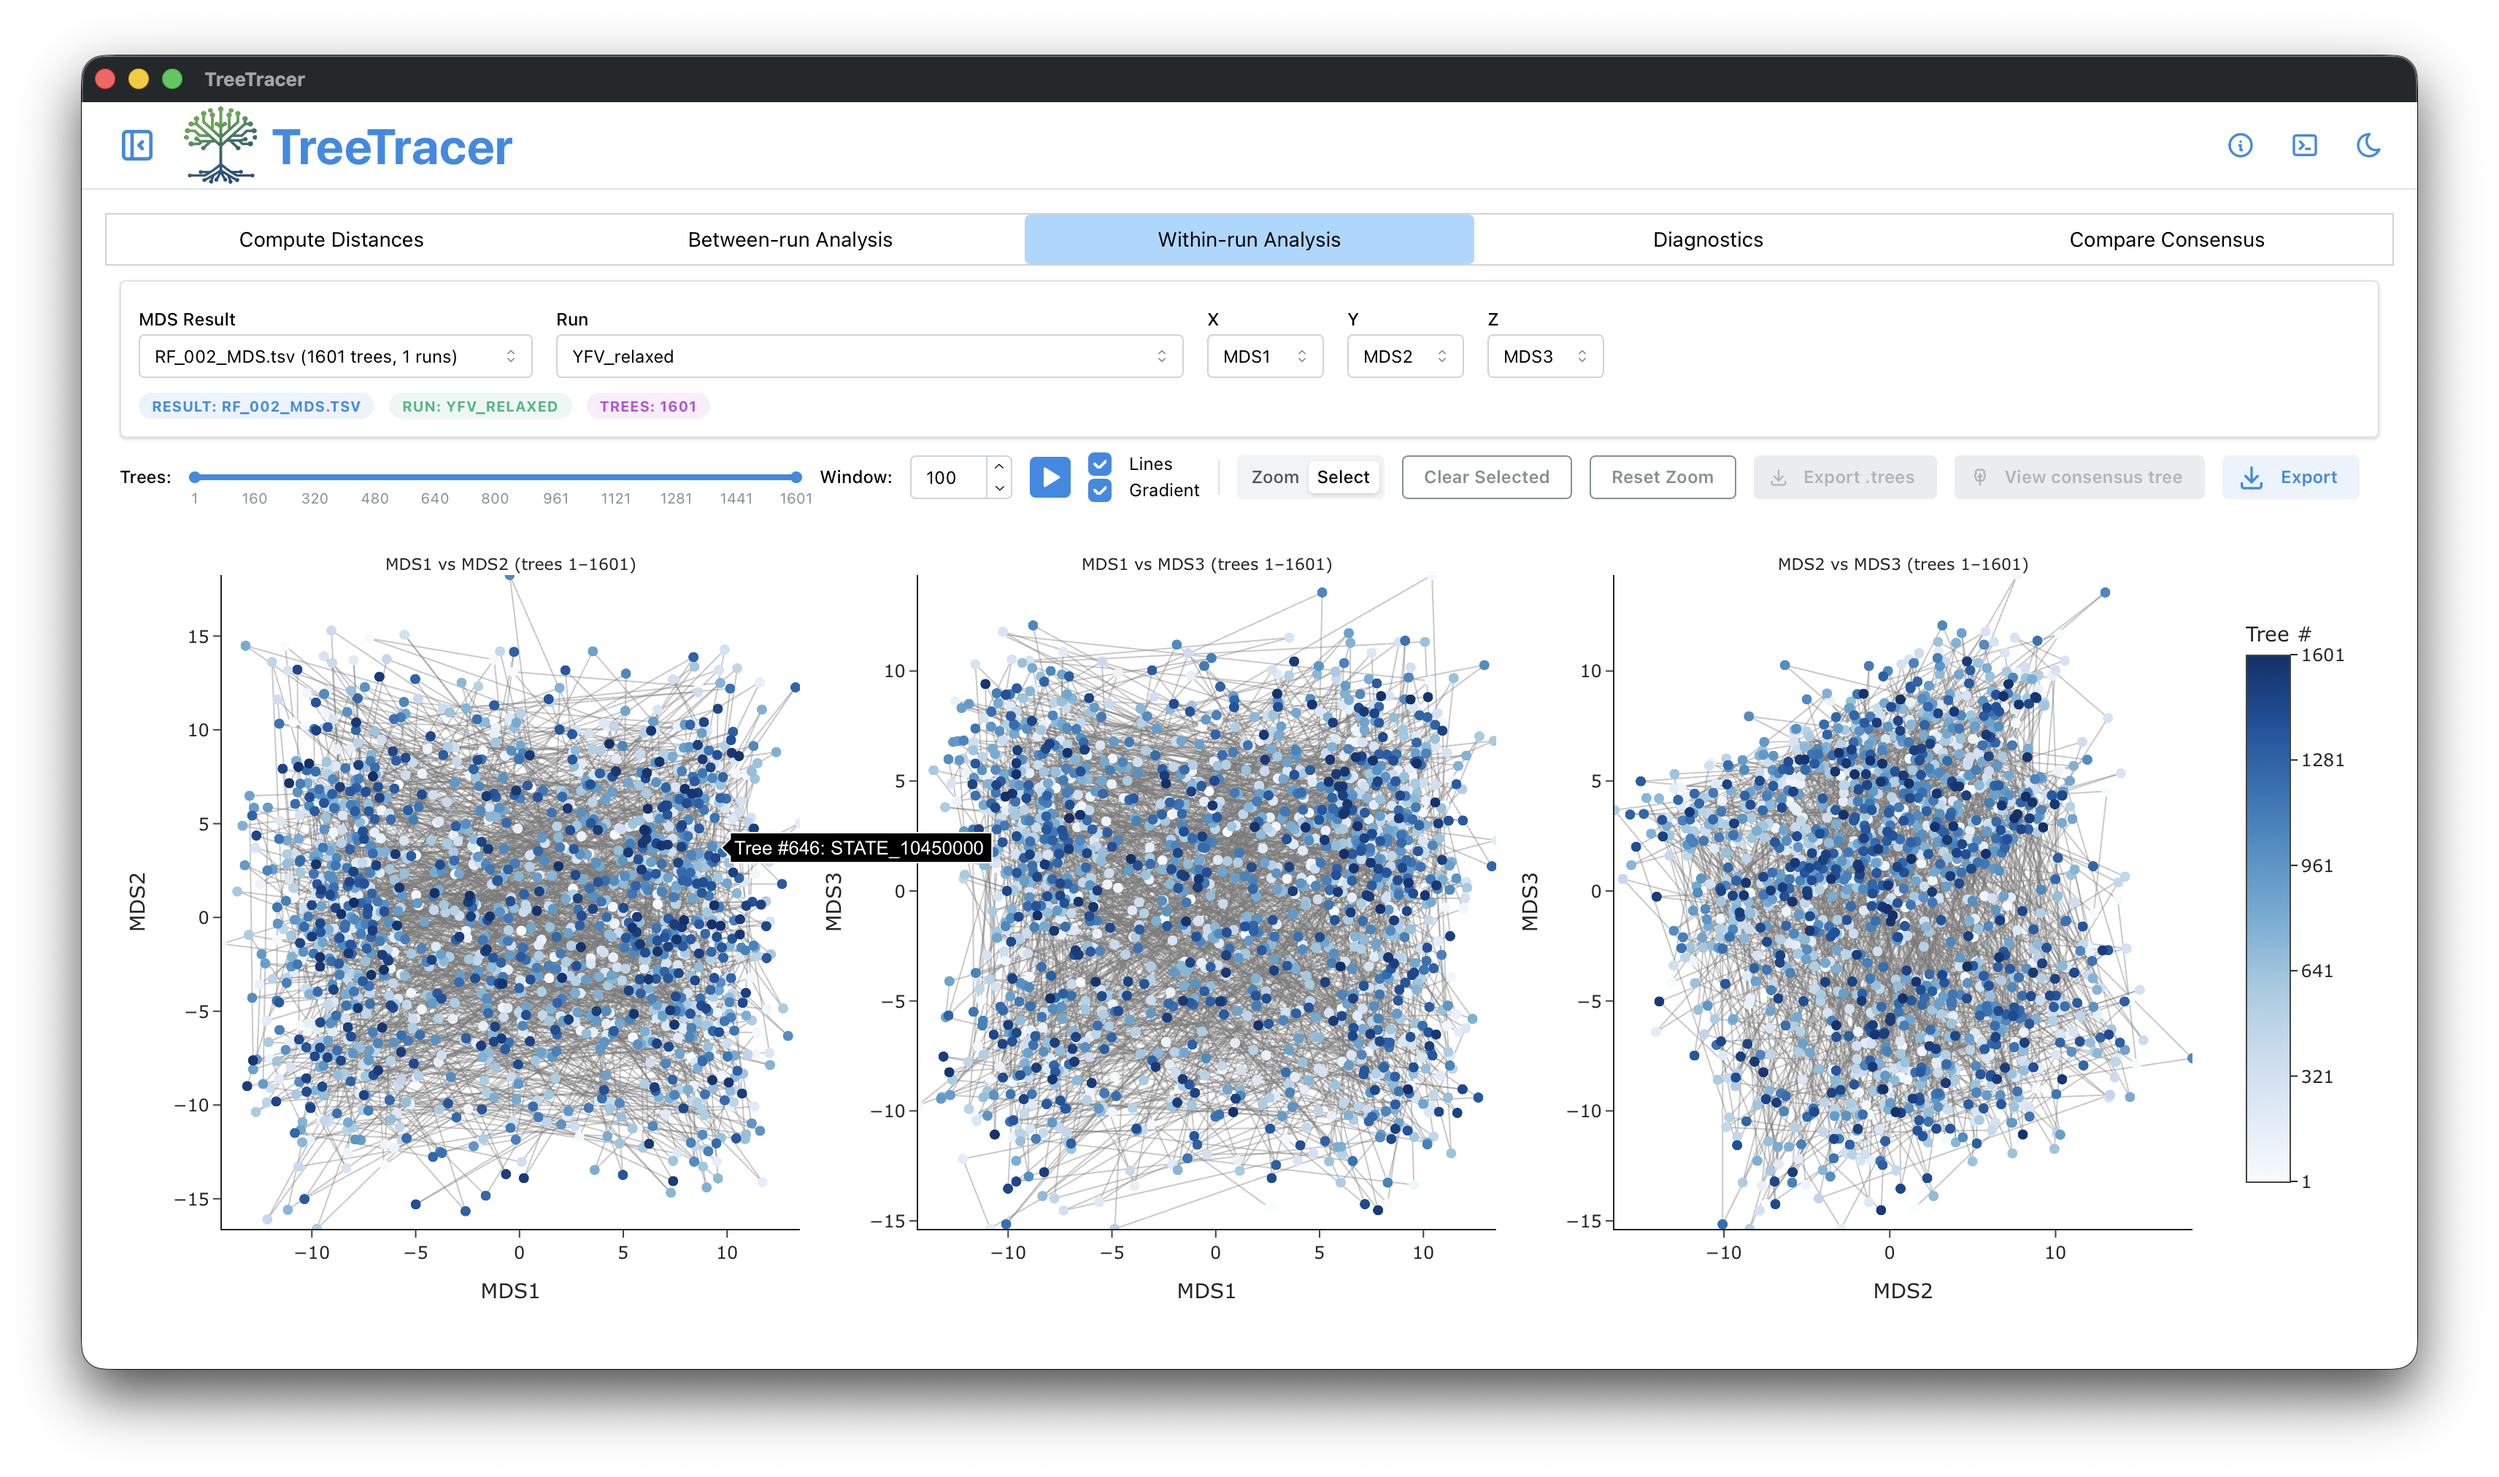
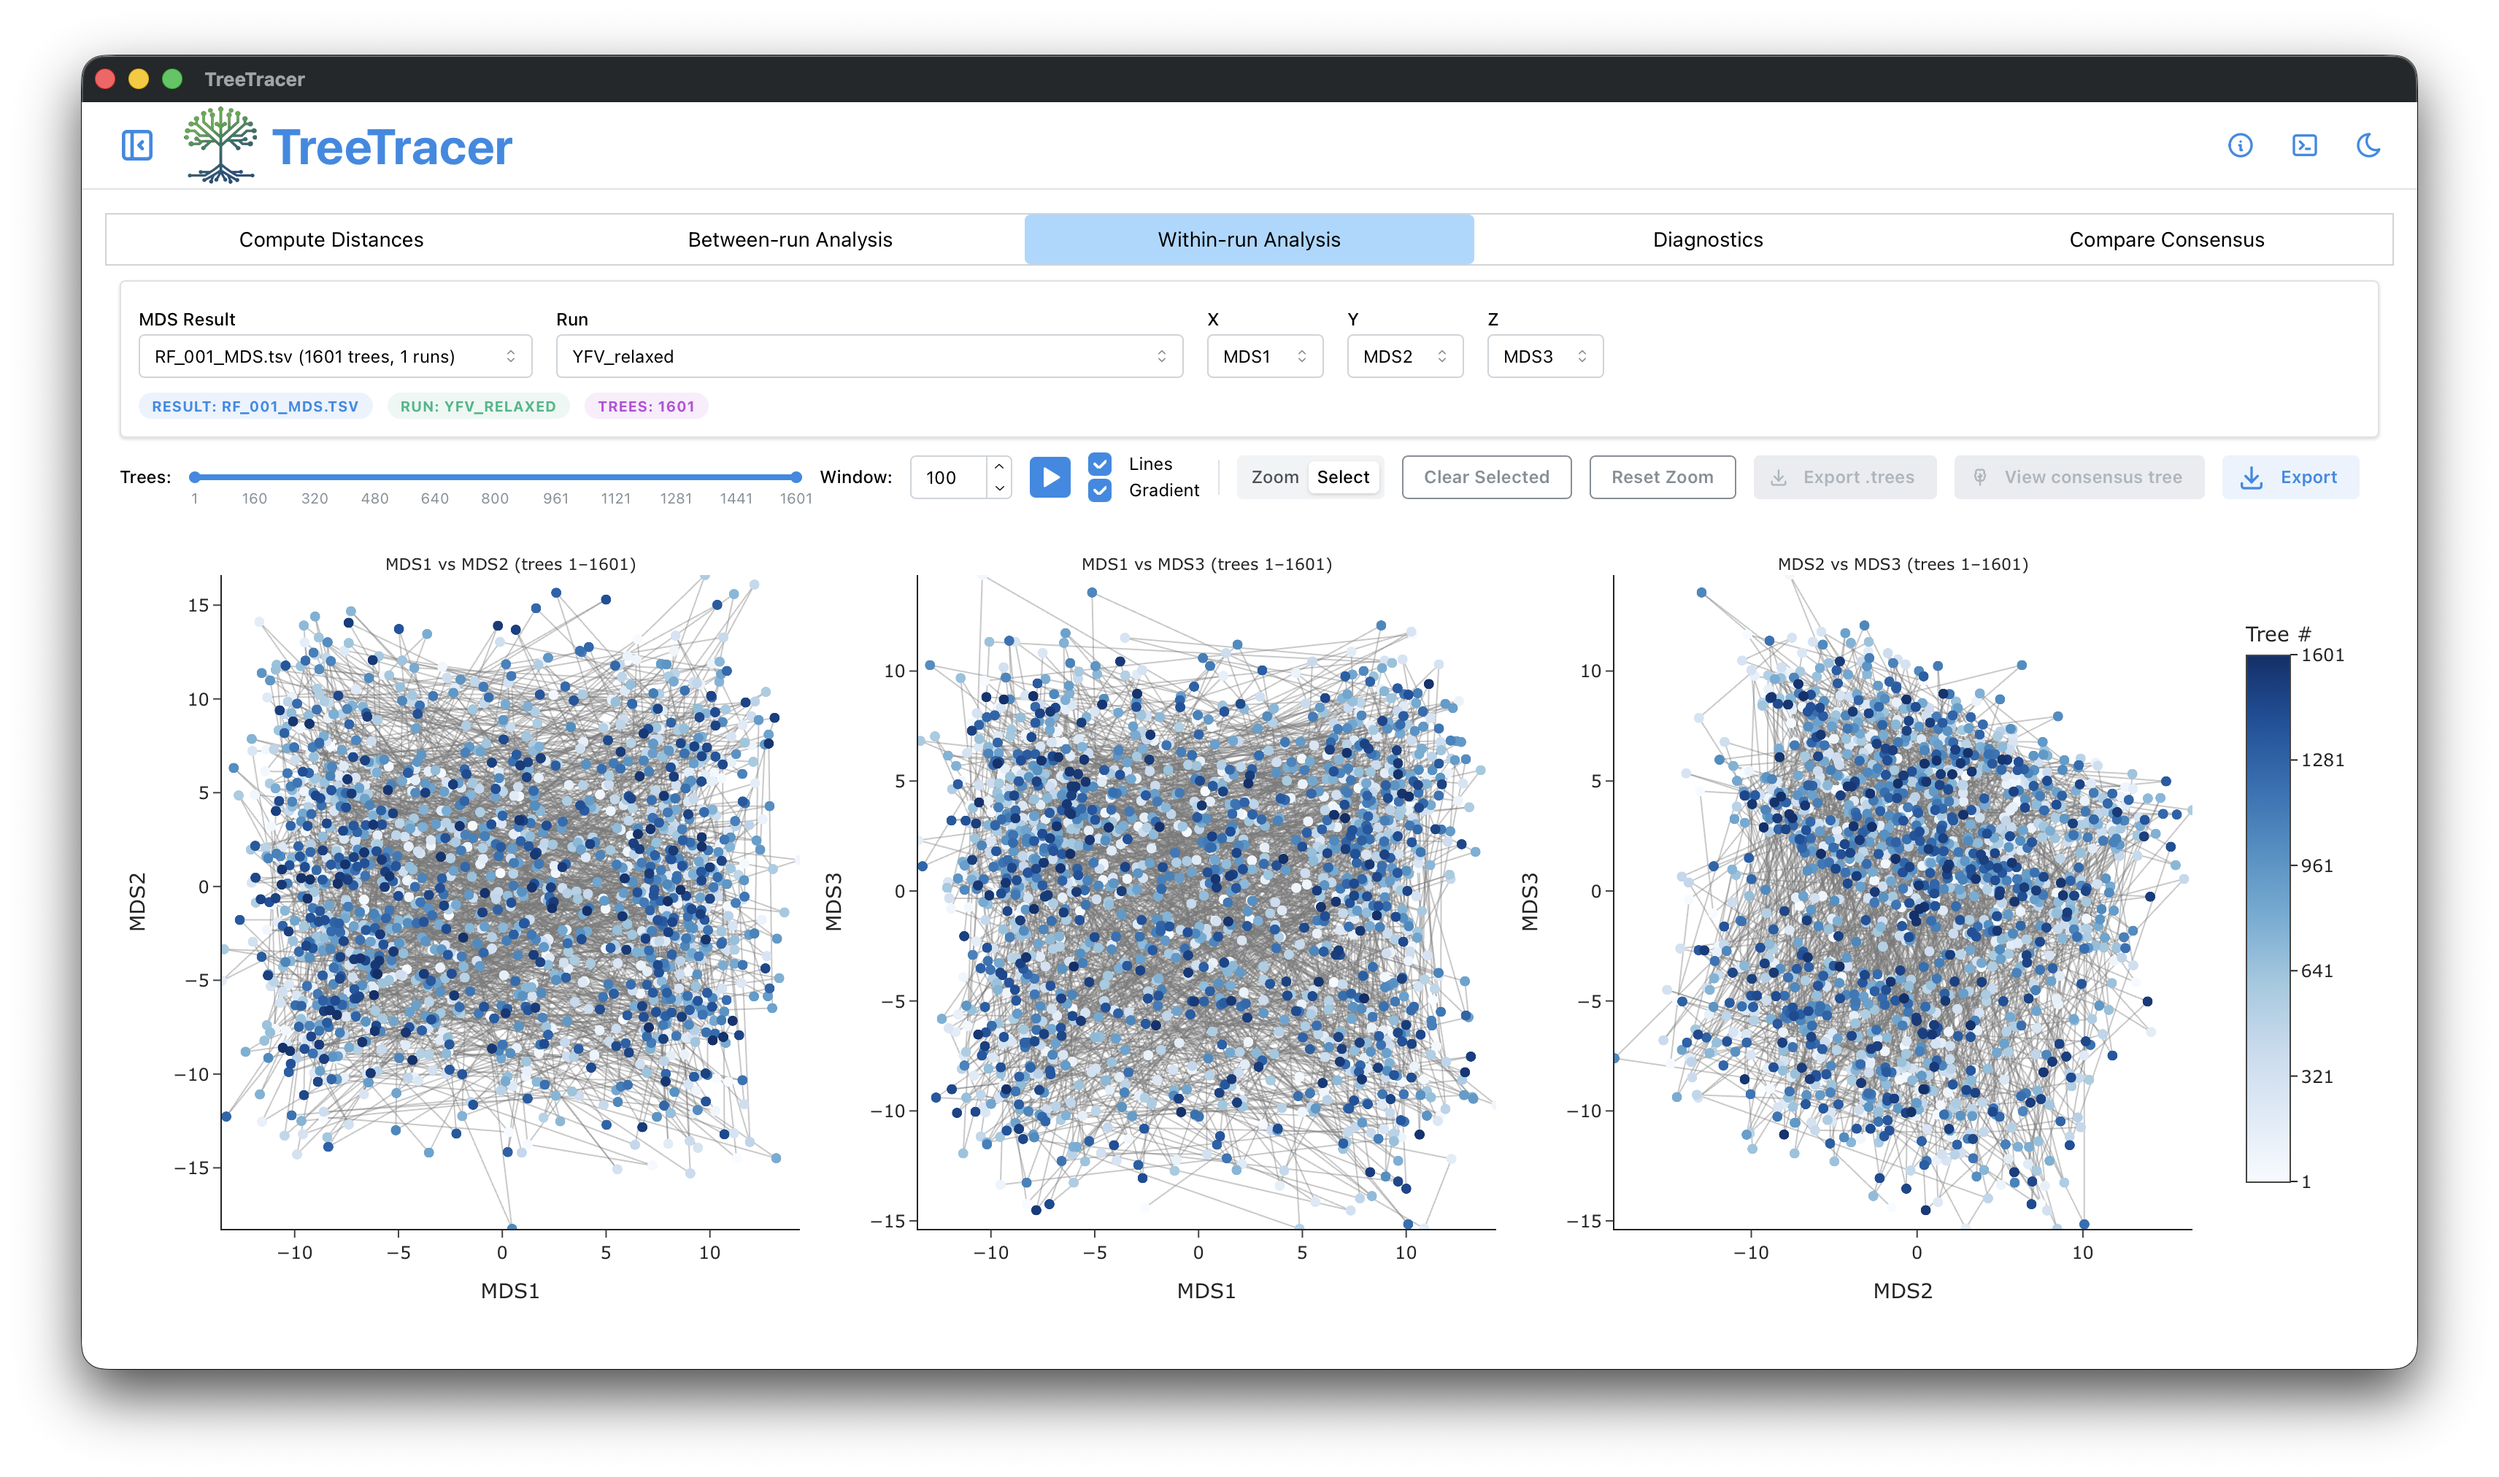
first updated draft of rates and dates tutorial

diff --git a/tutorials/workshop_rates_and_dates/workshop_rates_and_dates.md b/tutorials/workshop_rates_and_dates/workshop_rates_and_dates.md
@@ -411,7 +411,7 @@ Now, let’s have a look at the timescale of the tree. Select the statistics cal
 
 This indicates that the TMRCA for the Americas is significantly more recent than the entire tree and argues for a relatively recent introduction of yellow fever virus into the Americas. Note, however, that there is considerable uncertainty in these estimates. Switching to the `Estimates` panel shows that the mean date of of the TMRCA into the Americas is the year 1635 but the 95% HPD credible interval spans 1493 to 1765. Bryant et al. (2007) suggest that the introduction of YFV into the Americas is likely the result of the Atlantic slave trade which occurred from the 16th to 19th Centuries.
 
-## Visualizing the sampled posterior trees
+## Assessing convergence and mixing of the sampled posterior trees
 
 After checking the posterior samples for the continuous parameters in Tracer, we now move on to checking the posterior tree samples for convergence and proper mixing in TreeTracer. For convenience, we can rename the `YFV.trees` files from the `strict` and `relaxed` directories in the `.zip` file to `YFV_strict.trees` and `YFV_relaxed.trees` respectively. We first load the `YFV_strict.trees` file and set a 10% burn-in, by removing the first 200 sampled trees in the panel on the left-hand side:
 
@@ -429,19 +429,31 @@ We can now follow the same steps in TreeTracer for the `YFV_relaxed.trees` file,
 
 {% include image.html prefix=root_url file="treetracer-image4.png" %}
 
-
+When we now inspect the `Within-run Analysis` panel for the results of the MDS calculations, we observe a shift in the point colors for MDS1 x MDS2 and MDS1 x MDS3 2D projections from right to left. In other words, the remaining tree samples after removing 10% burn-in are still moving towards the posterior and the burn-in has hence been set too low:
 
 {% include image.html prefix=root_url file="treetracer-image5.png" %}
 
+This is confirmed by the Fréchet correlation ESS value in the `Diagnostics` panel, which is far below the desired threshold of 500 (Magee et al., 2024):
+
 {% include image.html prefix=root_url file="treetracer-image6.png" %}
+
+We hence go back to the `Compute Distances panel` and increase the burn-in to 20%, corresponding to removing the first 400 out of the 2001 collected tree samples. We again click `Compute RF distances` followed by `Compute MDS`:
 
 {% include image.html prefix=root_url file="treetracer-image7.png" %}
 
+Now when we inspect the 2D projections of the MDS in the `Within-run Analysis` panel, we're unable to detect any pattern(s) and can hence visually conclude that our Markov chain has converged and is mixing well in posterior tree space:
+
 {% include image.html prefix=root_url file="treetracer-image8.png" %}
+
+We can confirm this by computing the Fréchet correlation ESS in the `Diagnostics` panel, which now exceeds the desired threshold of 500 (Magee et al., 2024):
 
 {% include image.html prefix=root_url file="treetracer-image9.png" %}
 
+Note that rather than going through these steps for the `YFV_strict.trees` and `YFV_relaxed.trees` separately, you can do this in a single TreeTracer analysis by loading both files and going through the different steps and panels. This has the added advantage that you'll be able to assess whether the two analyses yields different posterior tree distributions (which they do):
+
 {% include image.html prefix=root_url file="treetracer-image10.png" %}
+
+This illustrates the impact that (molecular clock) model choice can have on the phylogenies you're interested in estimating. A different set of tutorials on Bayesian model selection are available to perform the required (log) marginal likelihood estimations to objectively decide which model(s) fit your data best: [model selection tutorial 1](model_selection_1) and [model selection tutorial 2](model_selection_2). 
 
 ## Summarizing the trees
 
@@ -495,7 +507,9 @@ You can make use of the BEAST output files provided with this tutorial (a chain 
 
 ## References
 
-Bryant JE, Holmes EC and Barrett ADT (2007) Out of Africa: A Molecular Perspective on the Introduction of Yellow Fever Virus into the Americas. *PLoS Pathogens*, **3**: e75. [doi: 10.1371/journal.ppat.0030075](https://doi.org/10.1371/journal.ppat.0030075)
+Bryant, J. E., Holmes, E. C., and Barrett, A. D. T. (2007) Out of Africa: A Molecular Perspective on the Introduction of Yellow Fever Virus into the Americas. *PLoS Pathogens*, **3**: e75. [doi: 10.1371/journal.ppat.0030075](https://doi.org/10.1371/journal.ppat.0030075)
+
+Magee, A., Karcher, M., Matsen IV, F. A., and Minin, V. (2024) How trustworthy is your tree? Bayesian phylogenetic effective sample size through the lens of Monte Carlo error. Bayesian Analysis, 19(2), 565-593. [doi: 10.1214/22-BA1339](https://doi.org/10.1214/22-BA1339)
 
 ## Help and documentation
 
